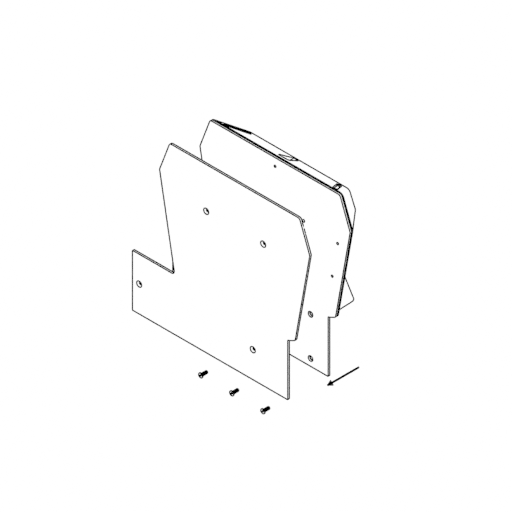
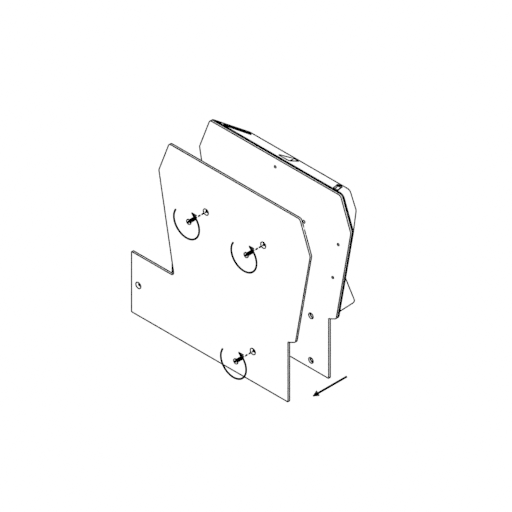
校正侧键预装三孔并将接线图改为 PH2.0 6P 局部对插

diff --git a/docs/simgeki2/manual/unbox/README.md b/docs/simgeki2/manual/unbox/README.md
@@ -41,11 +41,11 @@
 
 ![侧键步骤1：取出侧键](./imgs/side-key-step-1.png ':size=512')
 
-2. 使用随附的 H2.5 内六角扳手拆下外侧装饰板的三颗平头螺丝，取下外侧装饰板并保留螺丝。内侧亚克力板保留。
+2. 使用随附的 H2.5 内六角扳手逆时针拆下外侧装饰板的三颗平头螺丝（图示上方两颗和右下方一颗），取下外侧装饰板并保留螺丝。内侧亚克力板保留。
 
 ![侧键步骤2：拆下外侧装饰板并保留三颗螺丝](./imgs/side-key-step-2.png ':size=512')
 
-3. 连接 PH2.0×6 侧键线缆。侧键端线缆从装饰壳底部伸出，主机端从框架预留方孔伸出；图中省略被主体遮挡的接头和孔内线路。
+3. 连接 PH2.0×6 侧键线缆。对齐公、母头后，沿图示方向插合。侧键端线缆从装饰壳底部伸出，主机端从框架预留方孔伸出；配图显示接头局部，孔内走线省略。
 
 ![侧键步骤3：连接侧键线缆](./imgs/side-key-step-3.png ':size=512')
 
